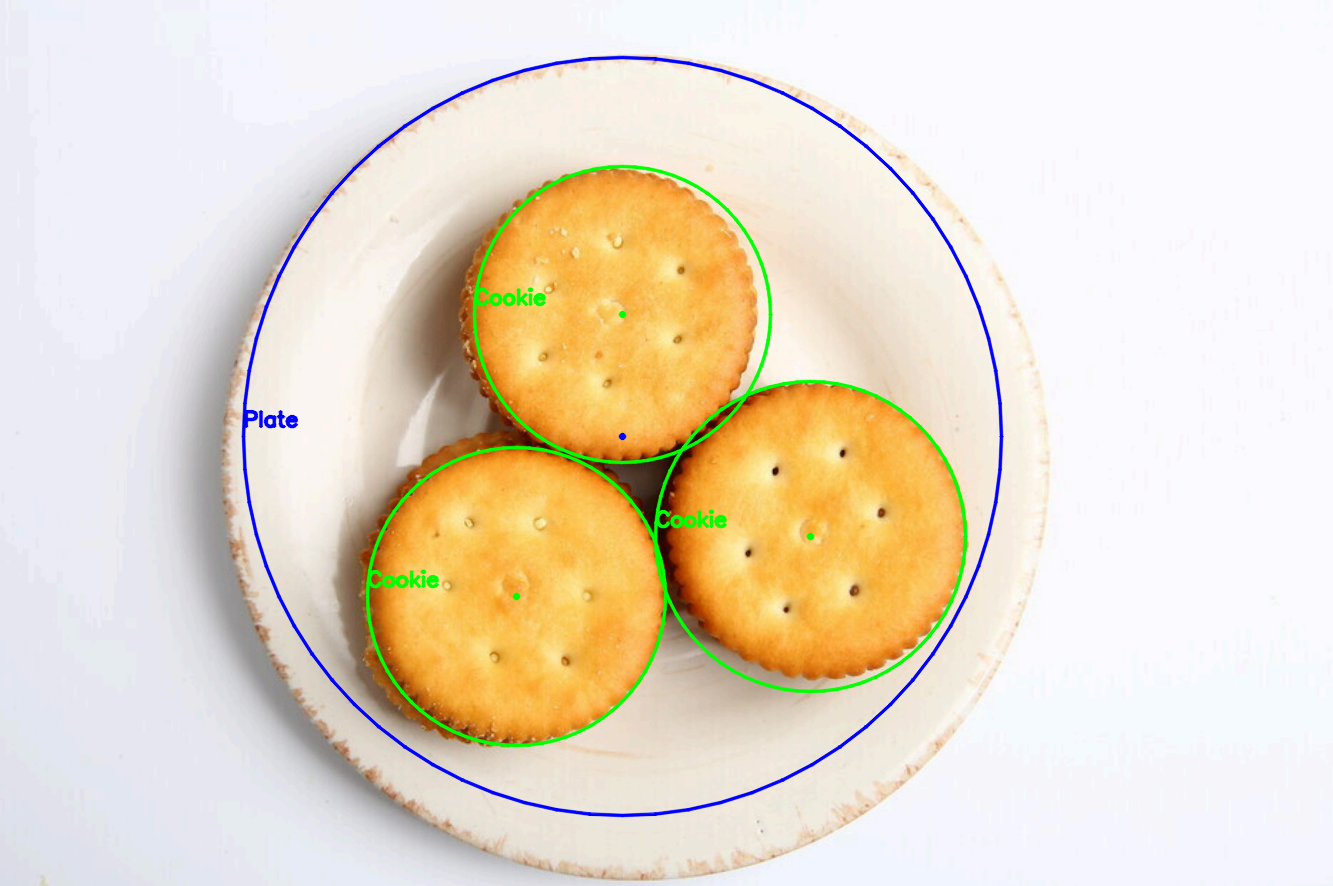
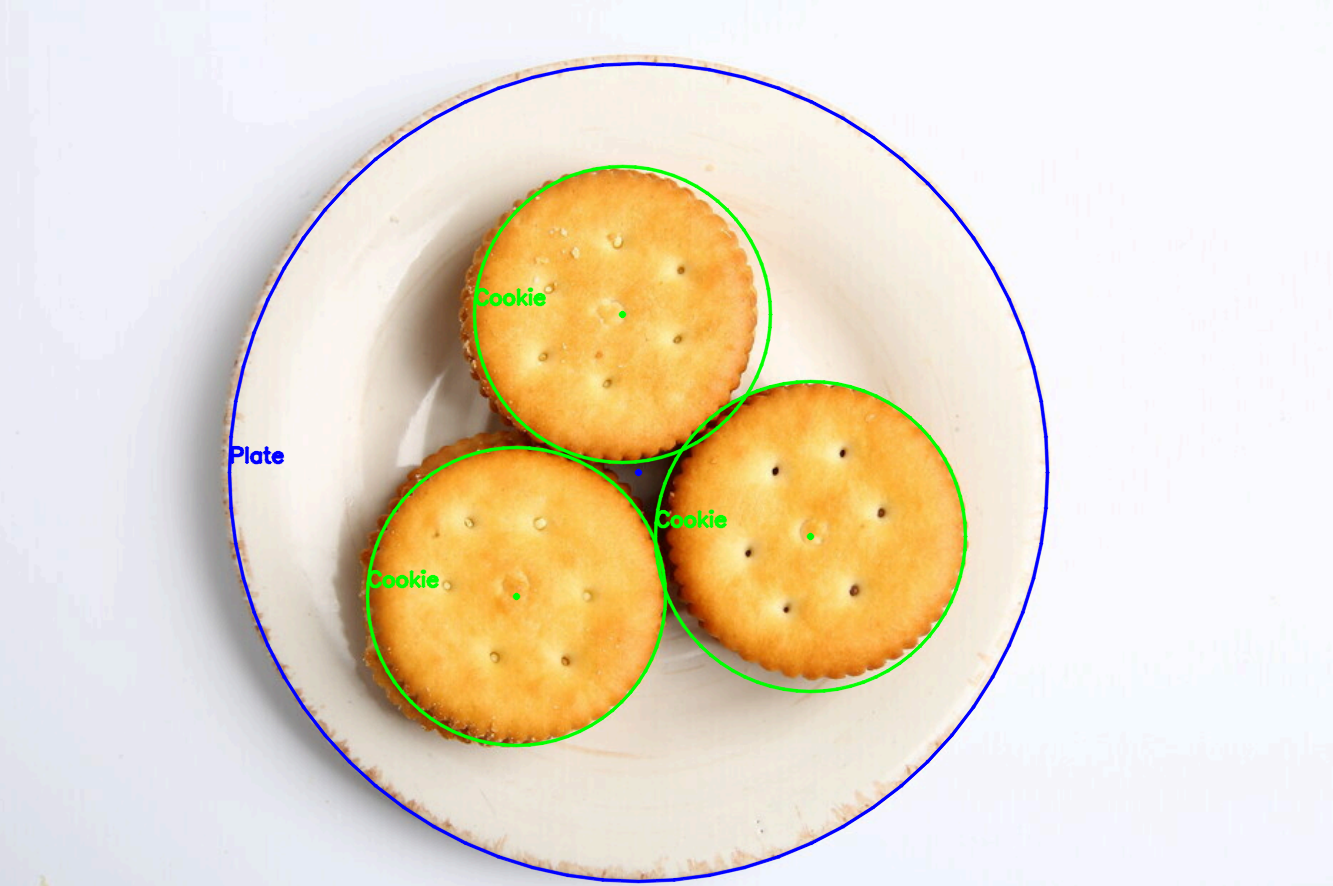
fix: 修正盘子检测——R=379 是内圈，真正的外沿是 R=409
- param2 30→20：门槛给高了会先滤掉较弱的盘沿，只剩内圈（边缘命中率仅 16%）
- 新增客观判据「边缘命中率」：沿圆周 360 点统计落在强边缘上的比例（409 为 52%）
- 文档 §2.4 重写：param1/param2 双表附命中率，新增三节
  · 2.4.1 把内圈当盘子的错误
  · 2.4.2 两个参数耦合，不能孤立说某个值不行
  · 2.4.3 半径范围会改变结果（0.35→409，0.20→413）
- 同步修正 README、§0 速览、§2.5、§3.2 中的真值与偏差
- utils.show 加 WINDOW_NORMAL + 置顶，避免窗口躲在 VS Code 后面被误认为卡死

diff --git a/task1_hough_circle.py b/task1_hough_circle.py
@@ -12,10 +12,10 @@ from utils import (gray_to_bgr, hstack_same_height, imread_unicode,
 BLUR_KSIZE = (9, 9)
 BLUR_SIGMA = 2.0
 CANNY_HIGH = 50            # 饼干的边缘阈值（金黄色饼干压在米白盘上，对比很弱）
-PLATE_CANNY_HIGH = 60      # 盘子的边缘阈值（靠盘沿那圈花纹，也偏弱）
-PLATE_R_MIN_RATIO = 0.35   # 半径按图片短边的比例算，换分辨率不用改
+PLATE_CANNY_HIGH = 60      # 盘子的边缘阈值（盘沿与桌面只差十来个灰阶，很弱）
+PLATE_R_MIN_RATIO = 0.35  # 半径按图片短边的比例算，换分辨率不用改
 PLATE_R_MAX_RATIO = 0.55
-PLATE_PARAM2 = 30          # 投票门槛：真实照片的边不完整，给高了会漏
+PLATE_PARAM2 = 20          # 投票门槛：盘子外沿比内圈更弱，门槛给到 30 只能找到内圈
 COOKIE_R_MIN_RATIO = 0.09
 COOKIE_R_MAX_RATIO = 0.20
 COOKIE_PARAM2 = 25

diff --git a/utils.py b/utils.py
@@ -43,9 +43,13 @@ def show(title, img, enabled=True):
     """弹出一个窗口显示图片。
 
     enabled=False 时只跳过显示，不影响存图（在没有图形界面的环境里跑代码时用）。
+    窗口用 WINDOW_NORMAL 并强制置顶，否则它会被 VS Code 挡在后面，
+    看起来像「什么都没发生」，其实程序正卡在 waitKey 上等按键。
     """
     if not enabled:
         return
+    cv2.namedWindow(title, cv2.WINDOW_NORMAL)
+    cv2.setWindowProperty(title, cv2.WND_PROP_TOPMOST, 1)
     cv2.imshow(title, img)
 
 

diff --git a/extras/task1_param_sweep.py b/extras/task1_param_sweep.py
@@ -22,7 +22,7 @@ import numpy as np
 from utils import imread_unicode, imwrite_unicode, with_title
 
 PARAM1_LIST = [20, 30, 40, 50, 60, 70, 85, 100, 130]
-PLATE_PARAM2 = 30
+PLATE_PARAM2 = 20
 PLATE_R_MIN_RATIO = 0.35
 PLATE_R_MAX_RATIO = 0.55
 

diff --git a/docs/学习过程.md b/docs/学习过程.md
@@ -13,7 +13,7 @@
 
 | 任务 | 要求 | 我的做法 | 结果 |
 |---|---|---|---|
-| 一(1) | 用霍夫圆检测找出图中的圆并标注 | `cv2.HoughCircles`，分「盘子」和「饼干」两遍，各配一套参数 | 盘子 1 个（R=379），饼干 3 个（R=148~155），全部命中 |
+| 一(1) | 用霍夫圆检测找出图中的圆并标注 | `cv2.HoughCircles`，分「盘子」和「饼干」两遍，各配一套参数 | 盘子 1 个（R=409，压在盘沿上），饼干 3 个（R=148~155），全部命中 |
 | 一(2) | 还有没有别的方式识别圆 | 轮廓+拟合圆、Otsu+连通域、ALT 版本三种，横向对比 | **只有霍夫 4 个目标全中**，三种替代方法合计只命中 3 个（见 §3.2） |
 | 二(1) | 读图、显示、转灰度、同时显示 | `imread` → `cvtColor` → 并排拼图显示 | `results/task2_original_and_gray.png` |
 | 二(2) | HSV 提取蓝色和黄色，矩形框标注 | `cvtColor(BGR2HSV)` + `inRange` + 形态学 + `boundingRect` | 蓝 4 块、黄 2 块 |
@@ -129,9 +129,9 @@ g = cv2.GaussianBlur(cv2.cvtColor(img, cv2.COLOR_BGR2GRAY), (5, 5), 1)
 于是拆成两遍，每遍只管自己的半径区间和阈值：
 
 ```python
-# 第一遍：找盘子。半径 0.35~0.55 倍短边，阈值 60
+# 第一遍：找盘子。半径 0.35~0.55 倍短边，param1=60、param2=20
 plates = hough_circles(blur, dp=1.0, min_dist=short*0.50, param1=60,
-                       param2=30, r_min=short*0.35, r_max=short*0.55)
+                       param2=20, r_min=short*0.35, r_max=short*0.55)
 
 # 第二遍：找饼干。半径 0.09~0.20 倍短边，阈值降到 50
 cookies = hough_circles(blur, dp=1.0, min_dist=short*0.16, param1=50,
@@ -148,49 +148,94 @@ cookies = hough_circles(blur, dp=1.0, min_dist=short*0.16, param1=50,
 
 ### 2.4 调参记录
 
-**盘子的 param1 扫描**（`param2=30`、半径 0.35~0.55）：
+**盘子的 param1 扫描**（`param2=20`、半径 0.35~0.55）：
 
-| param1 | 检出结果 | 说明 |
-|---|---|---|
-| 20 | (638,468) R=412 | 抓到最外圈，但圆心偏 |
-| 30 | (638,472) R=410 | 同上 |
-| 40 | (636,464) R=410 | 同上 |
-| 50 | (646,492) R=388 | 接近了 |
-| **60** | **(622,436) R=379** | **采用，圆心最正** |
-| 70 | 没检出 | 盘子边对比太弱，边缘被滤光 |
-| 85 / 100 / 130 | 没检出 | 同上 |
+| param1 | 检出结果 | 边缘命中率 | 说明 |
+|---|---|---|---|
+| 20 | (638,468) R=412 | 54% | 外沿，半径略大 |
+| 30 | (638,468) R=412 | 54% | 同上 |
+| 40 | (634,468) R=415 | 30% | 半径偏大，命中率骤降 |
+| 50 | (634,468) R=415 | 30% | 同上（**不单调**） |
+| **60** | **(638,472) R=409** | **52%** | **采用** |
+| 70 | (638,472) R=409 | 52% | 与 60 一致，可用 |
+| 85 | (630,468) R=406 | 38% | 开始偏移 |
+| 100 / 130 | 没检出 | — | 边被滤光 |
 
 **盘子的 param2 扫描**（`param1=60`）：
 
-| param2 | 检出结果 |
-|---|---|
-| 15 / 20 / 25 | R=409（偏大，把花纹也包进去了） |
-| **30** | **R=379（采用）** |
-| 35 / 40 / 50 | 没检出 |
+| param2 | 检出结果 | 边缘命中率 | 说明 |
+|---|---|---|---|
+| 10 | 4 个：(638,468) R=413 + 3 个 R=454~475 | 真圆 54%，假圆 8~11% | 假圆圆心在图角，明显不在盘子上 |
+| 15 / **20** / 22 | **(638,472) R=409** | **52%** | **采用，正好压在盘沿上** |
+| 25 | (632,470) R=409 | 44% | 半径对，但圆心开始偏 |
+| 30 | (622,436) **R=379** | **16%** | ⚠ **这是盘子的内圈，不是外沿** |
+| 35 / 40 | 没检出 | — | 门槛过高 |
 
-这张表最值钱的地方：**`param1` 从 60 再往上，盘子就什么都检不出来了**。
-白盘子压在浅色背景上，灰度差只有 20 左右，阈值一高边缘就没了。
+### 2.4.1 这里我犯过的错：把内圈当成了盘子
 
-饼干那一遍也是同一个规律，只是分界点略低（`param2=25` 时）：
+一开始我用 `param2=30`，得到 `(622,436) R=379`，看图觉得“圈得很标准”，就把它当成了正确答案。
+后来把 `param2` 降到 20，同一个盘子变成了 `R=409`，两个圆并排一画才发现：
+**379 那个圆落在盘子内部的斜面上，那里根本没有边。**
+
+怎么判断谁对？不能靠眼睛。我用了一个客观指标——**边缘命中率**：
+沿圆周取 360 个点，看每个点沿半径方向 ±4 像素内是否存在强梯度，统计命中的比例。
+
+```
+R=379 → 命中率 16%   ← 圆周大部分压在光滑斜面上
+R=409 → 命中率 52%   ← 圆周大部分压在真正的盘沿上
+```
+
+盘子的外沿比内圈更模糊（外沿要和桌面拉开对比，内圈是白瓷和白瓷的折角），
+所以**门槛一高，外沿先被滤掉，只剩内圈**。这是“参数越低找到的圆越大”的真实原因。
+
+### 2.4.2 两个参数是耦合的，不能孤立地说“某个值不行”
+
+这一点我踩过：先按 `param2=30` 扫 `param1`，发现 `param1≥70` 一个圆都检不出，
+就写下了“`param1` 不能超过 60”。
+
+但把 `param2` 改成 20 之后重扫，`param1=70`、`param1=85` 都能正常检出 `R=409`。
+
+所以正确表述是：
+
+> `param1` 的可用上限**取决于 `param2`**。`param2=30` 时上限是 60；`param2=20` 时上限是 85。
+> 报一个参数的“好值”必须带上另一个参数的取值，否则没有意义。
+
+饼干那一遍同理（`param2=25`，`param1=50`）：
 
 | param1 | 30 | **50** | 60 | 70 | 80 及以上 |
 |---|---|---|---|---|---|
 | 检出饼干 | 3（圆心偏 5~10px） | **3（最准）** | 3 | 1 | 0 |
 
-所以**两类目标能用的阈值窗口都很窄，而且「最准的那一档」不一样**（盘子 60、饼干 50）。
-再叠上半径差 4 倍这个事实，一遍全检必然要么装不下、要么放进假圆——
-**这就是必须分两遍的直接原因**：不是参数本身有多不同，是它们各自只在一个很窄的窗口里成立，
-而这两个窗口不重合。
+**这就是必须分两遍的直接原因**：不是“两类目标的参数完全不同”，而是
+半径差 2.6 倍、各自的最优 `param1` 和 `param2` 又互相牵制，
+一组参数只能落在两边的妥协点上，换张照片就崩。
+
+### 2.4.3 半径范围也不是“事后筛子”，它会改变结果
+
+只把 `PLATE_R_MIN_RATIO` 从 `0.35` 改成 `0.20`，其它全不动：
+
+| 半径下限 | 检出结果 |
+|---|---|
+| 0.35（采用） | (638,472) **R=409** |
+| 0.20 | (638,468) **R=413** |
+
+圆心几乎没动，半径大了 4 像素。原因不是“筛掉了什么”，而是**候选半径的集合变了**，
+累加器里票数最高的那一档随之改变。
+
+所以「限制半径范围」不只是过滤，它参与检测本身。定范围的原则是：
+**包住真值并上下留余量**（实测 409/886 = 0.46，所以取 0.35~0.55），
+而不是“反正宽一点更保险”——放太宽，结果反而会飘。
 
 ![param1 扫描九宫格](../results/task1_param_sweep.png)
 
-*图：`param1` 从 20 到 130，其它参数固定。前五格能检出但半径偏大，从 70 起全部空白。*
+*图：`param1` 从 20 到 130（`param2` 固定为 20）。从 100 起才是全空白——
+注意这张图是在 `param2=20` 下跑的，和“70 就没了”那次不是同一组条件。*
 
 ### 2.5 结果
 
 ```
 读入图片：images/plate_real.png  尺寸 1333x886（短边 886）
-检测到盘子 1 个：[[622, 436, 379]]
+检测到盘子 1 个：[[638, 472, 409]]
 检测到饼干 3 个：[[516, 596, 149], [810, 536, 155], [622, 314, 148]]
 ```
 
@@ -198,7 +243,7 @@ cookies = hough_circles(blur, dp=1.0, min_dist=short*0.16, param1=50,
 
 ![检测结果](../results/task1_result.png)
 
-*图：蓝圈标盘子（R=379），绿圈标三块饼干（R=148~155）。*
+*图：蓝圈标盘子（R=409，正好压在盘沿上），绿圈标三块饼干（R=148~155）。*
 
 ![三步对照](../results/task1_steps.png)
 
@@ -260,23 +305,27 @@ Otsu 是自动找阈值的办法：遍历所有阈值，选让前景、背景差
 
 *图：左起 —— 原图 / A 轮廓法（橙色圆）/ B 连通域（绿框）/ C ALT（黄圈）。*
 
-目标真值：盘子 `(622,436) R=379`，饼干 `(516,596) R=149`、`(810,536) R=155`、`(622,314) R=148`。
+目标真值：盘子 `(638,472) R=409`，饼干 `(516,596) R=149`、`(810,536) R=155`、`(622,314) R=148`。
 
 | 方法 | 检出 | 盘子 | 饼干 | 关键参数 | 主要弱点 |
 |---|---|---|---|---|---|
-| **霍夫（本项目采用）** | **4 个** | ✅ R=379 | ✅ 3 块全中 | 半径范围 + 两套阈值 | 参数敏感，不同尺度要分别调 |
-| A 轮廓 + 拟合圆 | 2 个 | ⚠ R=389，圆心偏 57px | 1 块（右下，R=144） | Canny(20,60)、闭运算 9×9、周长≥600、偏差≤0.10 | 盘沿碎成小段时连候选都进不去；漏掉两块 |
+| **霍夫（本项目采用）** | **4 个** | ✅ R=409（命中率 52%） | ✅ 3 块全中 | 半径范围 + 两套阈值 | 参数敏感，不同尺度要分别调 |
+| A 轮廓 + 拟合圆 | 2 个 | ⚠ R=389（半径 -20px、圆心偏 18px、命中率 23%） | 1 块（右下，R=144） | Canny(20,60)、闭运算 9×9、周长≥600、偏差≤0.10 | 盘沿碎成小段时连候选都进不去；漏掉两块 |
 | B Otsu + 连通域 | 1 块 | ❌ 没找到 | ❌ 0 块（三块连成一片） | Otsu 阈值 204、面积≥20000、长宽比 0.7~1.3 | 白盘子和浅色桌面只差 2 个灰阶，切不开 |
 | C ALT 版本 | 1 个 | ❌ 没找到 | 1 块（左下，R=155） | `dp=1.5`、`param1=50`、`param2=0.3` | 判据严，边缘不完整就漏；`param1` 给官方示例的 300 时本图** 0 检出** |
 
-三条实测结论：
+四条实测结论：
 
 1. **霍夫是唯一 4 个目标全中的**，原因是它的投票机制**不要求边缘闭合**。
    A 方法要求边缘能连成一条可拟合的长弧，B 要求目标比背景暗，C 要求梯度方向严格一致，
    这三条在本图上都不成立。这就是最后选霍夫的理由——不是它「更先进」，是它更耐残缺。
 2. **A 的失败点不在「套圆」，在「筛子」。** 同一批轮廓，用外接圆 + 圆度筛选是 0 个，
    换成最小二乘拟合 + 偏差筛选就出 2 个。算法不变，换判据就活了。
-3. **B 输出的那个 1 块是巧合**。它的框是 662×592，中心 (615,491)，看着很像盘子，
+3. **判“对没对”不能靠眼睛，要靠指标。** 我最初把 `R=379` 当成正确答案，因为圈在圆盘上看着很标准；
+   实际它的边缘命中率只有 16%，圆压在盘子内部的斜面上。改用「沿圆周 360 个点的边缘命中率」之后，
+   `R=409` 是 52%、`R=379` 是 16%，高下立判。**同一个指标也能用来比较不同方法的输出质量**，
+   这比“看着像不像”客观得多。
+4. **B 输出的那个 1 块是巧合**。它的框是 662×592，中心 (615,491)，看着很像盘子，
    其实那是「三块饼干 + 阴影」连成的一整块。**看数字像对，看图才知道错**——
    这也是为什么每步都要把中间结果画出来看。
 
@@ -407,6 +456,8 @@ S 下限取 120，留足余量。
 | 轮廓法一个圆都筛不出（最高圆度只有 0.66，门槛 0.80） | 盘沿是断的，开口曲线算不出面积，圆度恒接近 0 | 筛选用**周长**代替面积，判据换成「拟合圆偏差」 |
 | `minEnclosingCircle` 给的半径比真值大 40~50px | 只要有一段弧离得最远，外接圆就被这一个点撑大 | 改用**最小二乘拟合圆**，偏差压到 0.007 |
 | ALT 版本一个圆都检不出 | `param1` 照官方示例给了 300，本图边缘太弱 | 降到 50，`param2` 给 0.3，检出 1 块 |
+| 检出的圆「看着很标准」，其实是盘子的内圈 | `param2=30` 门槛偏高，外沿（对比更弱）先被滤掉，只剩内圈 R=379 | 降到 `param2=20` 得到外沿 R=409；并用「边缘命中率」验证（16% → 52%） |
+| 同一次 `param1=70` 一会儿能检出一会儿检不出 | 它和 `param2` 耦合：`param2=30` 时 70 就失效，`param2=20` 时 85 还能用 | 记录参数时必须成对写，不能只说“某个值不行” |
 
 ---
 

diff --git a/README.md b/README.md
@@ -8,7 +8,7 @@ Python 3.13 + OpenCV 4.11 + VS Code。
 **任务一** · `images/plate_real.png`（1333×886）
 
 ```
-盘子 1 个：圆心 (622, 436)，半径 379
+盘子 1 个：圆心 (638, 472)，半径 409
 饼干 3 个：半径 148 / 155 / 148
 ```
 
@@ -37,10 +37,10 @@ python task1_hough_circle.py --no-show   # 不弹窗，只输出结果图
 | 参数 | 值 | 为什么 |
 |---|---|---|
 | 盘子 `param1` | 60 | 白盘压浅背景，边缘弱，太高就描不出边 |
-| 盘子 `param2` | 30 | 门槛给 50 就一个圆都检不到 |
+| 盘子 `param2` | 20 | 门槛给到 30 会找到盘子**内圈**（R=379），给到 35 就什么都检不到 |
 | 饼干 `param1` | 50 | 金黄饼干压在米白盘上，灰度只差 11，必须低 |
 | 饼干 `param2` | 25 | 小圆票少 |
-| 盘子半径 | 0.35~0.55×短边 | 实测半径 379，短边 886，比值 0.43 |
+| 盘子半径 | 0.35~0.55×短边 | 实测半径 409，短边 886，比值 0.46 |
 | 饼干半径 | 0.09~0.20×短边 | 实测半径 148~155，比值 0.17 |
 | 蓝色 `S` 下限 | 120 | Indoor 那半边偏暗，蓝块 S 只有 150，卡到 200 以上会漏 |
 | 黄色 `S` 下限 | 120 | 黄块的 S 都 240 以上，给低点没有副作用 |
